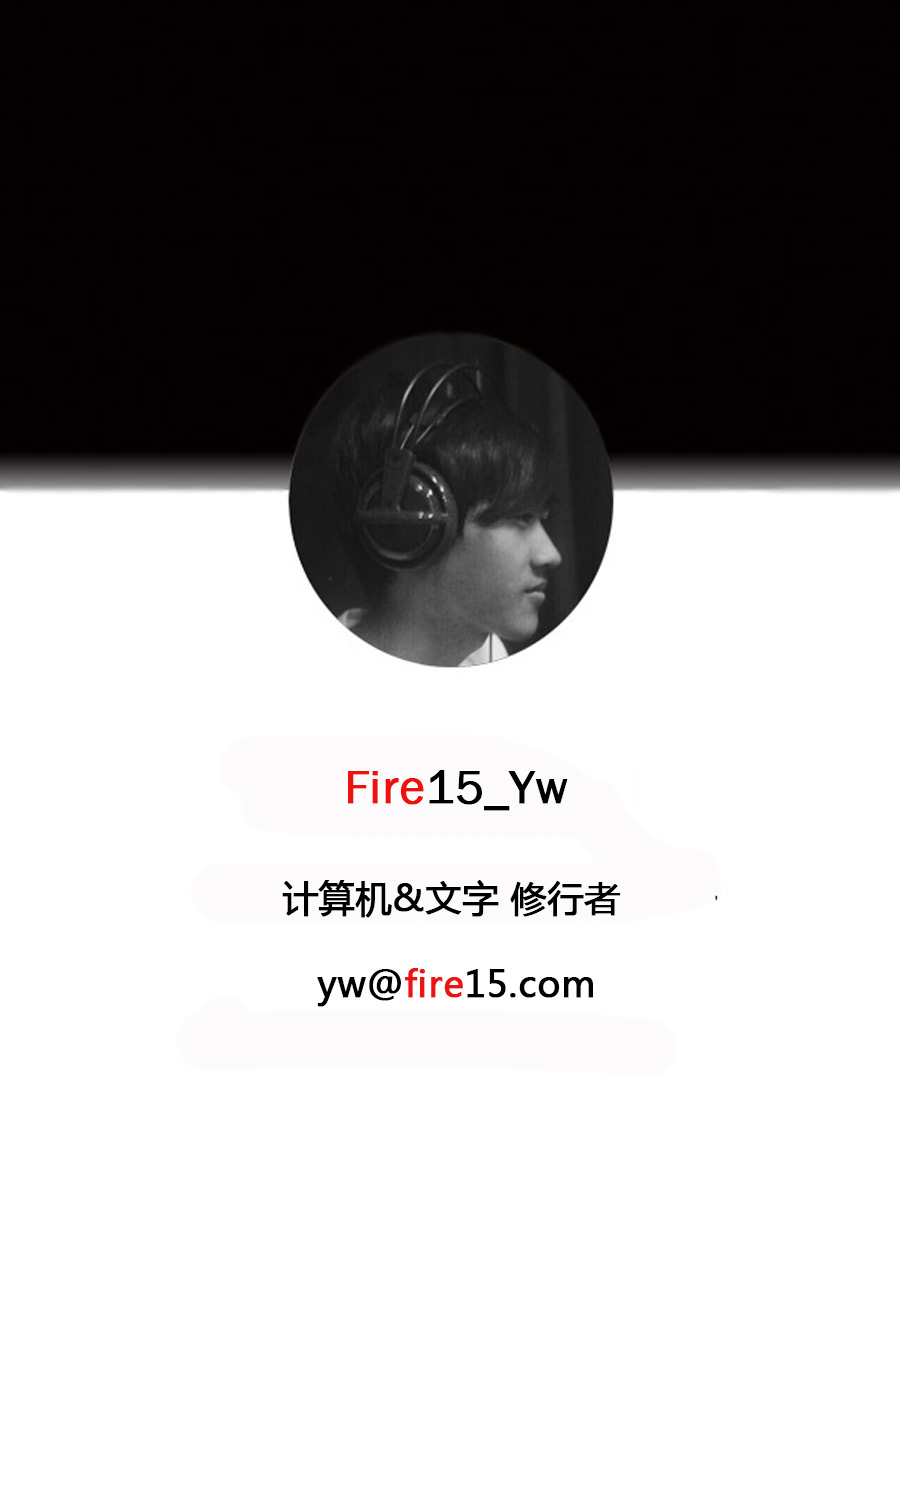
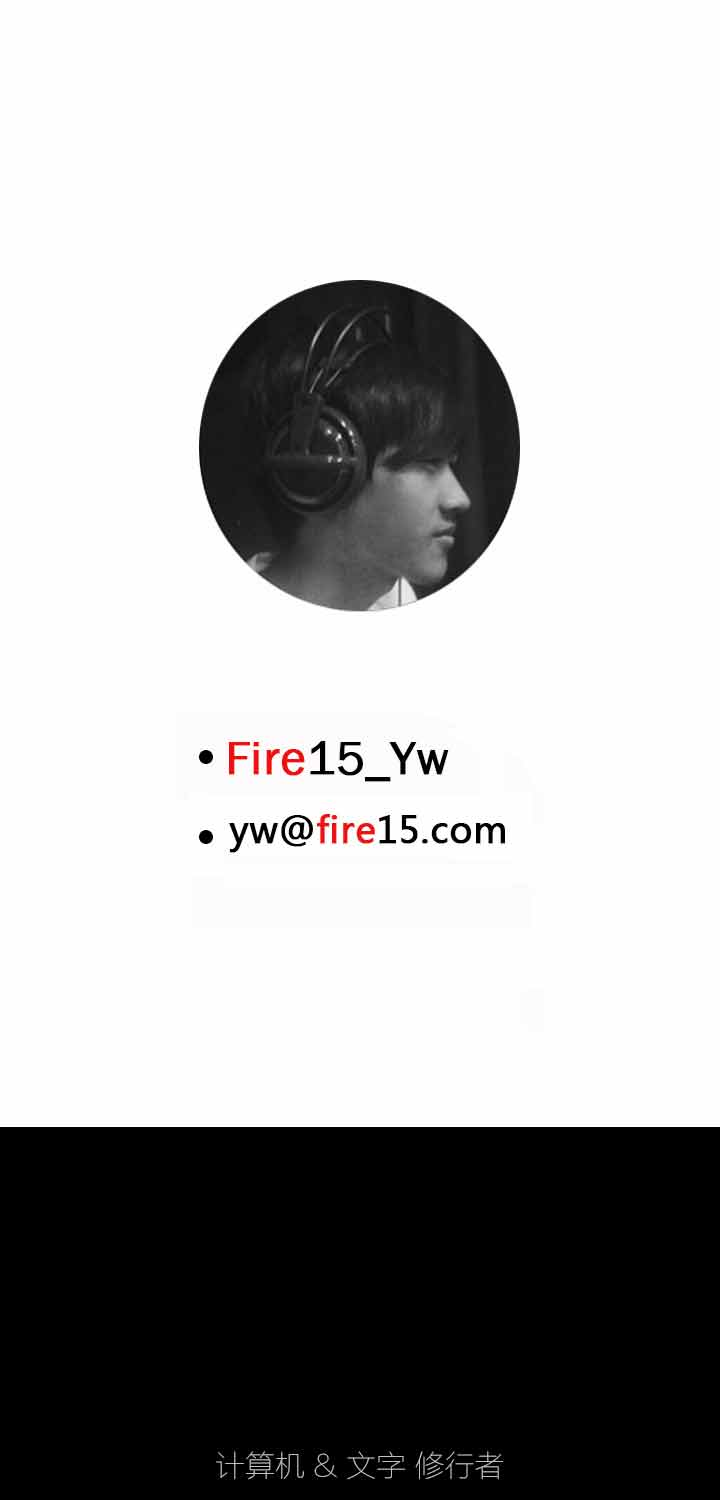
blog style change3

diff --git a/css/default.css b/css/default.css
@@ -131,8 +131,8 @@ h3.about {color:#777;margin-top:20px;font-size:22px;margin-bottom:10px}
 #menuIndex li.h3{padding-left:25px;}
 
 .home-menu { position:fixed; top:15px; left:15px; z-index:5; font-size:0; }
-.home-menu-icon { line-height:38px; padding:0 8px; display:inline-block; color:#000; font-size:18px;  background:#fff; }
-.home-follow { margin-left:2px; line-height:38px; padding:0 8px; display:inline-block; color:#000; font-size:18px; background:#fff;  }
+.home-menu-icon { line-height:38px; padding:0 8px; display:inline-block; color:#fff; font-size:18px;  background:#000; }
+.home-follow { margin-left:2px; line-height:38px; padding:0 8px; display:inline-block; color:#fff; font-size:18px; background:#000;  }
 .home-menu-icon:hover,
 .home-follow:hover { color:#ee1d24; text-decoration:none; }
 .home-contact { color:#fff; margin-top:2px; background:#000; padding:8px 0 7px; text-align:center; display:none;}
